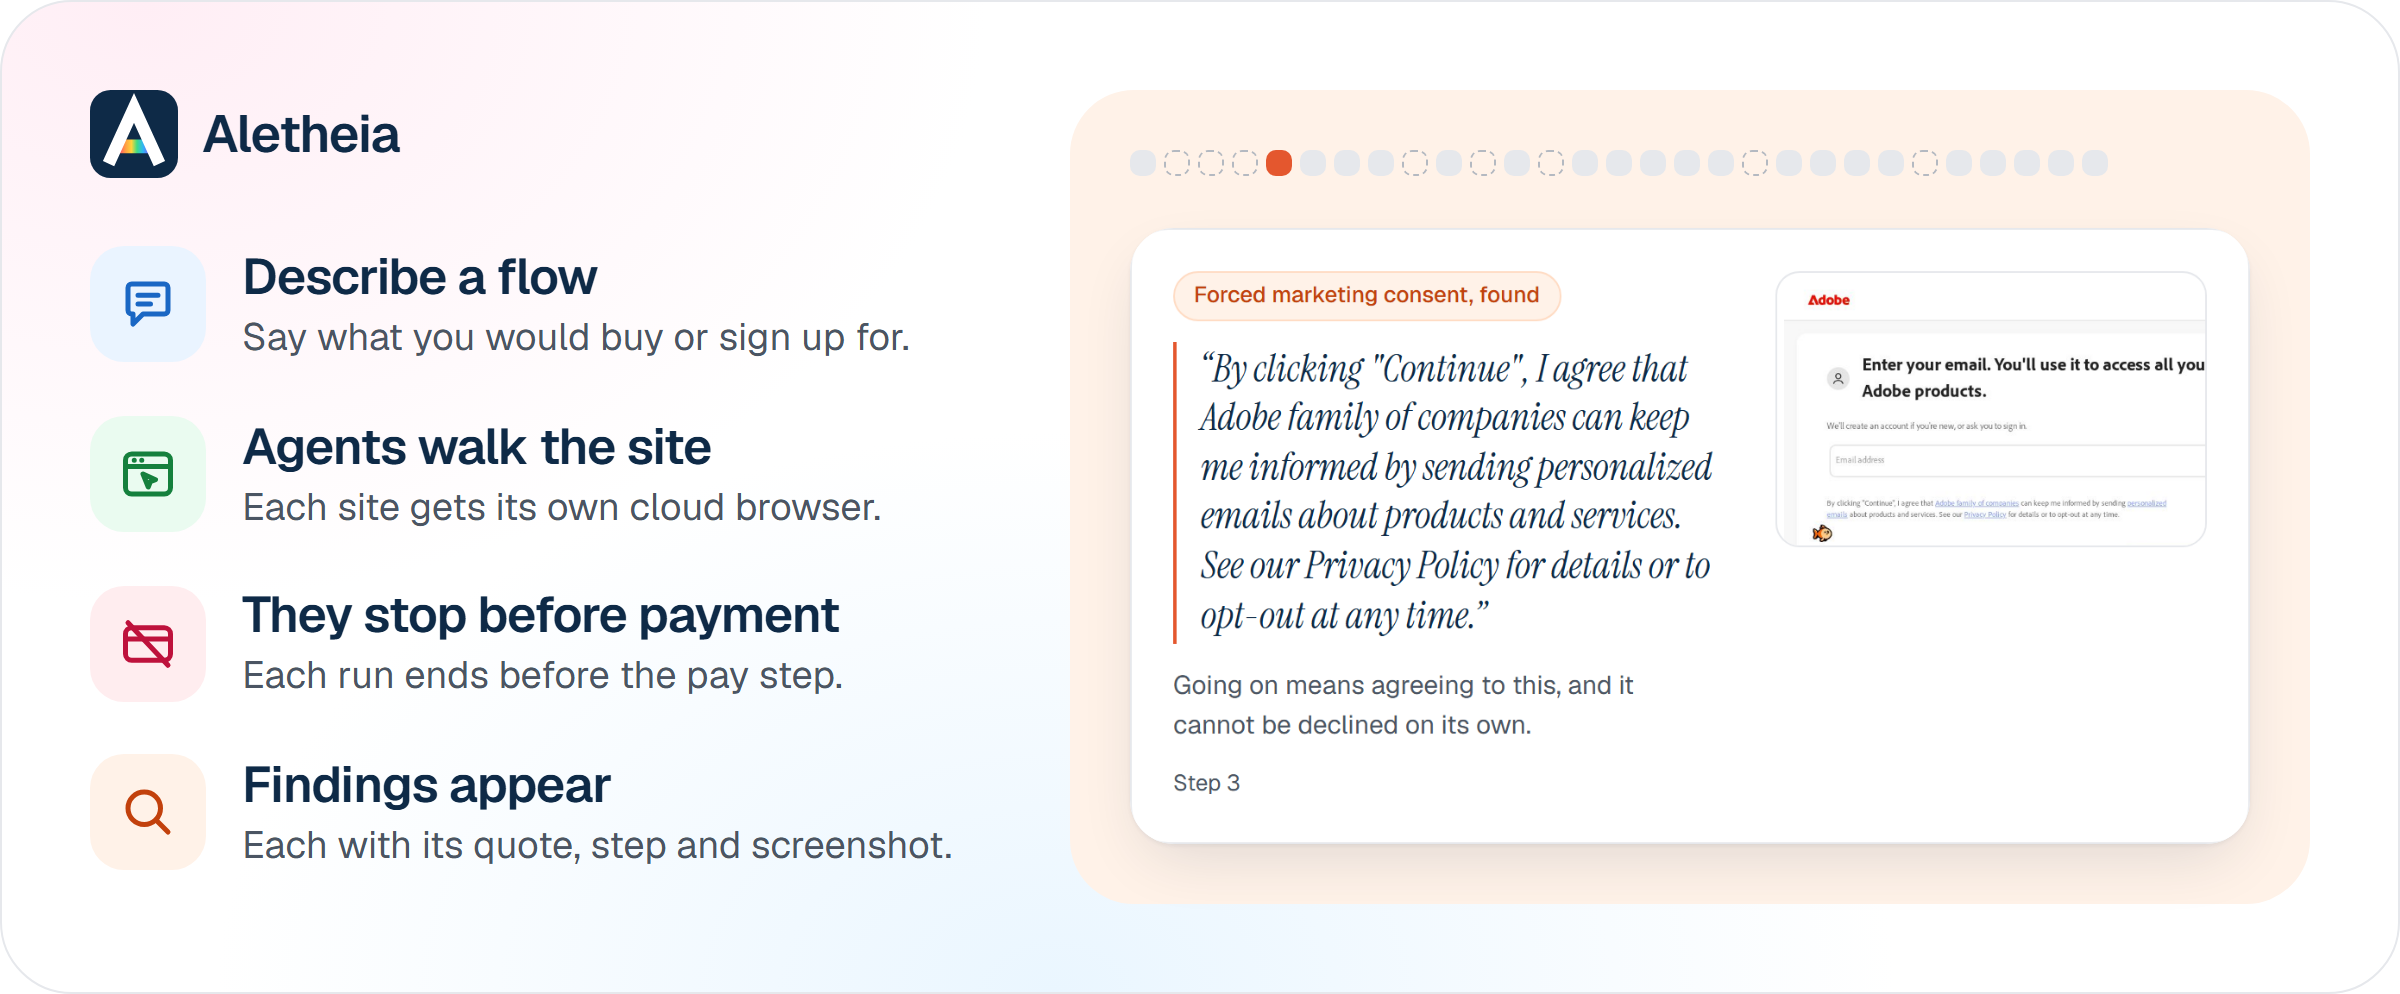
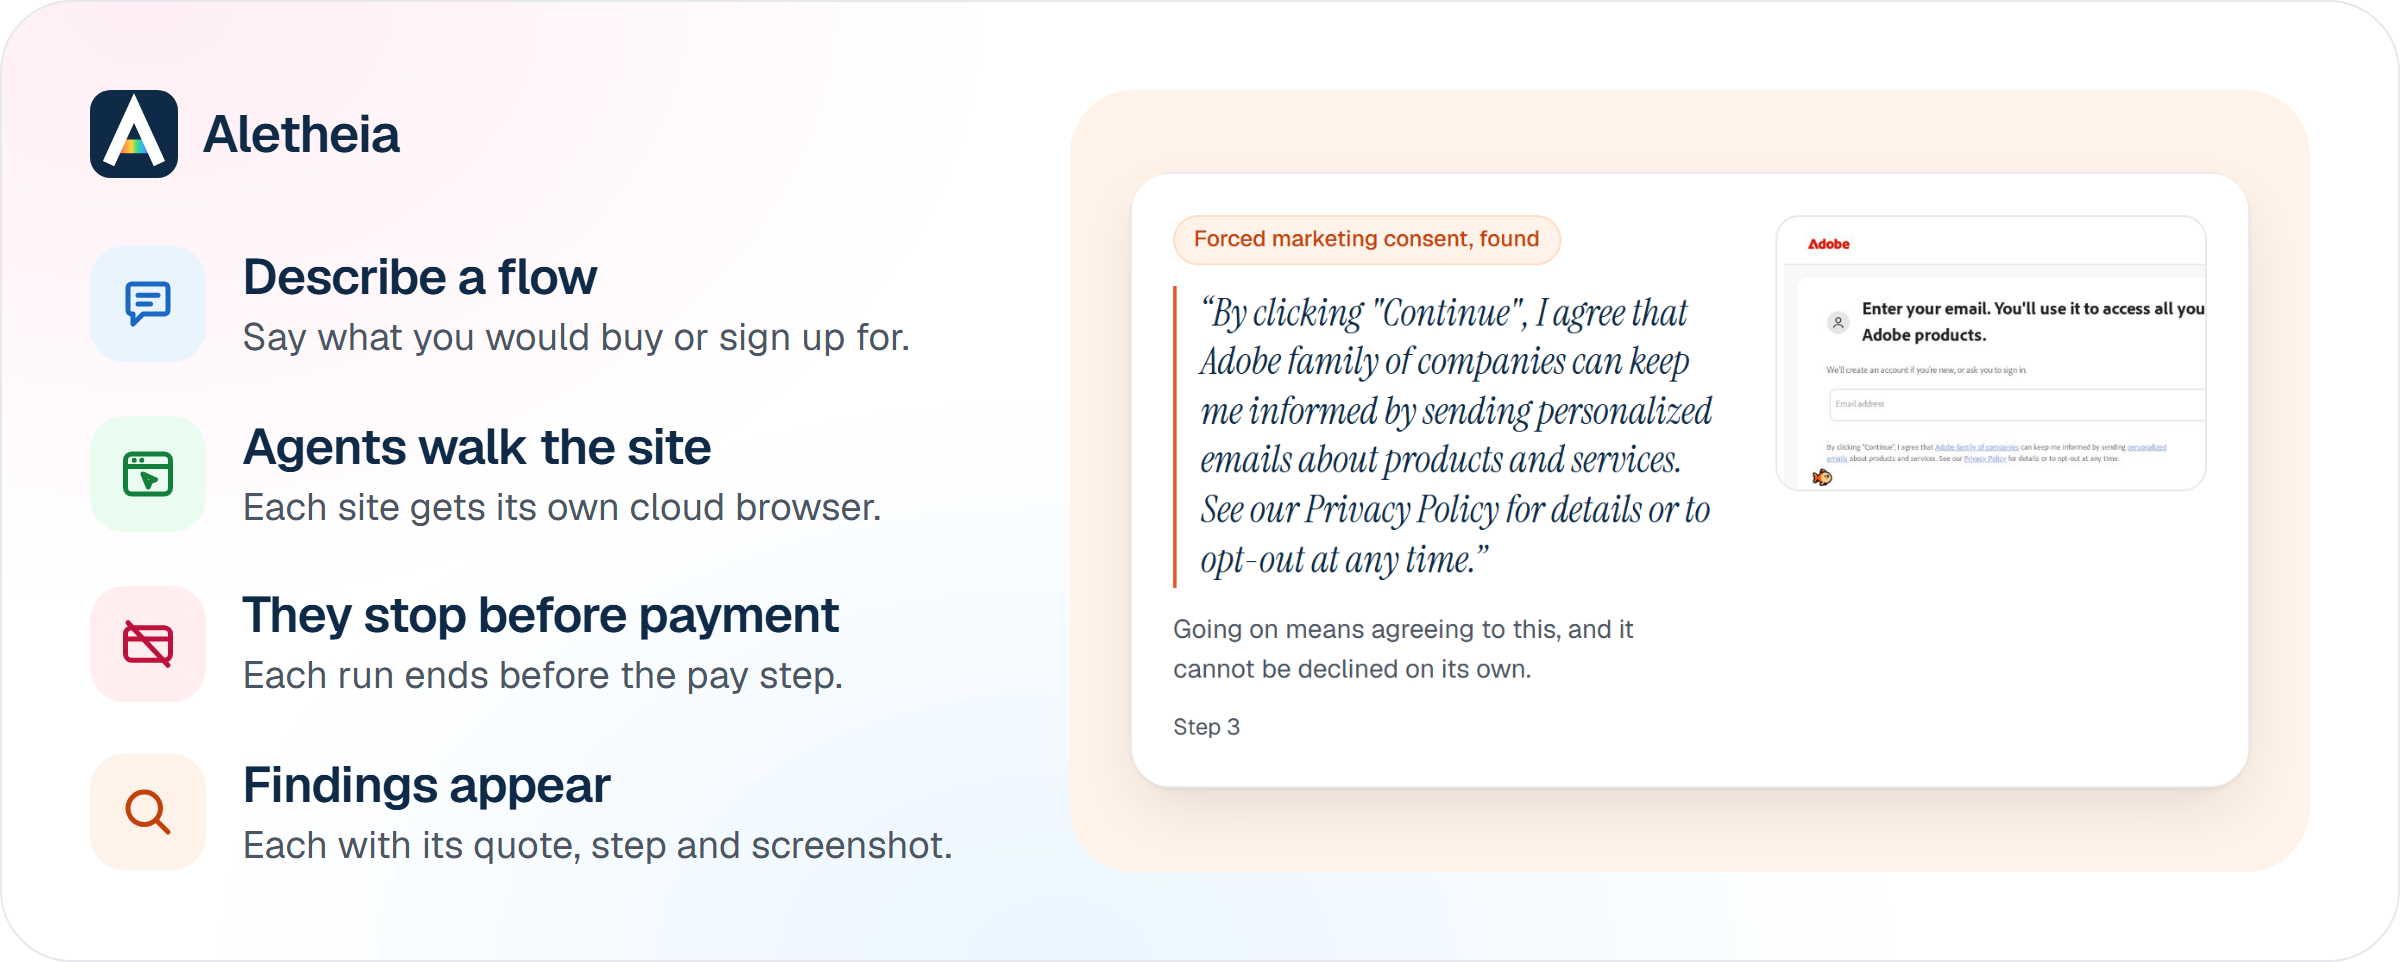
docs: redrew the social preview and how-it-works image without the strip

diff --git a/docs/design/how-it-works.html b/docs/design/how-it-works.html
@@ -79,20 +79,8 @@
       .panel {
         align-items: center;
         display: flex;
-        flex-direction: column;
-        gap: 26px;
         justify-content: center;
         padding: 30px;
-      }
-
-      .strip {
-        align-self: flex-start;
-        gap: 4px;
-      }
-
-      .strip i {
-        height: 13px;
-        width: 13px;
       }
 
       .evidence {
@@ -163,13 +151,6 @@
         </ol>
       </section>
       <section class="panel">
-        <div class="strip" aria-hidden="true">
-          <i></i><i class="unchecked"></i><i class="unchecked"></i><i class="unchecked"></i
-          ><i class="found"></i><i></i><i></i><i></i><i class="unchecked"></i><i></i>
-          <i class="unchecked"></i><i></i><i class="unchecked"></i><i></i><i></i><i></i><i></i
-          ><i></i><i class="unchecked"></i><i></i> <i></i><i></i><i></i><i class="unchecked"></i
-          ><i></i><i></i><i></i><i></i><i></i>
-        </div>
         <img
           class="evidence"
           src="finding.png"

diff --git a/docs/design/social-preview.html b/docs/design/social-preview.html
@@ -40,16 +40,6 @@
         line-height: 1.08;
       }
 
-      .strip {
-        gap: 7px;
-        margin-top: 34px;
-      }
-
-      .strip i {
-        height: 20px;
-        width: 20px;
-      }
-
       .panel {
         padding: 44px 30px;
       }
@@ -67,10 +57,6 @@
           <span>Aletheia</span>
         </div>
         <h1>Find the dark patterns on <em class="accent">any</em> website.</h1>
-        <div class="strip" aria-hidden="true">
-          <i></i><i></i><i></i><i></i><i class="found"></i><i></i><i class="unchecked"></i><i></i
-          ><i></i><i></i><i class="unchecked"></i><i></i><i></i>
-        </div>
       </section>
       <section class="panel">
         <img

diff --git a/docs/design/portrait.css b/docs/design/portrait.css
@@ -24,8 +24,6 @@
   --sky-ink: #1a67c4;
   --rose: #ffedef;
   --rose-ink: #be123c;
-  --found: #e4572e;
-  --dash: #b4b9c1;
   --shadow-card: 0 1px 2px rgb(14 42 71 / 0.06), 0 12px 32px -8px rgb(14 42 71 / 0.14);
 }
 
@@ -77,24 +75,4 @@ body {
   border-radius: 22px;
   box-shadow: var(--shadow-card);
   display: block;
-}
-
-.strip {
-  display: flex;
-  flex-wrap: wrap;
-}
-
-.strip i {
-  background: var(--line);
-  border-radius: 5px;
-  display: block;
-}
-
-.strip i.found {
-  background: var(--found);
-}
-
-.strip i.unchecked {
-  background: none;
-  border: 1.5px dashed var(--dash);
 }
